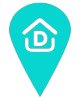
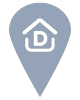
feat: marcador PRO por plan de suscripción + opciones del chat siempre visibles
- Nuevo campo subscription_plans.use_pro_marker: las propiedades de un
  dueño con un plan marcado así usan siempre el marcador PRO en el mapa
  (venta/alquiler/anticrético dejan de importar), tanto en la app nativa
  como en la web. Admin puede activarlo por plan desde Suscripciones.
- Backend: /properties (listado público) ahora resuelve la suscripción
  activa del dueño y expone `owner_pro_marker` por propiedad, sin filtrar
  el resto de los datos del dueño.
- Actualiza los assets de marcador-sale/rent/anti (nuevo diseño) y agrega
  marker-pro, sincronizados en assets/ (nativo) y public/ (web).
- Chat del asistente: las opciones rápidas (vender/alquilar/anticrético/
  "no tengo tiempo") ahora se muestran siempre debajo del historial, no
  solo antes del primer mensaje.

diff --git a/apps/api/src/modules/properties/properties.service.ts b/apps/api/src/modules/properties/properties.service.ts
@@ -24,7 +24,26 @@ const listInclude = {
   zones: { select: { id: true, name: true, city: true } },
   property_images: { where: { is_main: true }, take: 1 },
   property_amenities: { select: amenityInclude },
+  // Solo para resolver el marcador PRO del mapa — se aplana a un booleano
+  // y se descarta el resto (no se expone el owner en el listado público).
+  users: {
+    select: {
+      subscriptions: {
+        where: { status: 'active', subscription_plans: { use_pro_marker: true } },
+        select: { id: true },
+        take: 1,
+      },
+    },
+  },
 } satisfies Prisma.propertiesInclude;
+
+/** Aplana el include de arriba a un booleano plano y saca el `users` crudo de la respuesta pública. */
+function withProMarkerFlag<T extends { users?: { subscriptions: unknown[] } | null }>(
+  prop: T,
+): Omit<T, 'users'> & { owner_pro_marker: boolean } {
+  const { users, ...rest } = prop;
+  return { ...rest, owner_pro_marker: (users?.subscriptions.length ?? 0) > 0 };
+}
 
 const detailInclude = {
   property_types: { select: { id: true, name: true, slug: true } },
@@ -99,7 +118,7 @@ export class PropertiesService {
       },
       include: listInclude,
     });
-    return property;
+    return withProMarkerFlag(property);
   }
 
   async update(user: AuthUser, id: string, dto: UpdatePropertyDto) {
@@ -123,7 +142,7 @@ export class PropertiesService {
     // editar nada NO pasa por acá — ver publish()/reactivate().
     const needsReReview = prop.approval_status === 'approved';
 
-    return this.prisma.properties.update({
+    const updated = await this.prisma.properties.update({
       where: { id },
       data: {
         title: dto.title,
@@ -147,6 +166,7 @@ export class PropertiesService {
       },
       include: listInclude,
     });
+    return withProMarkerFlag(updated);
   }
 
   async publish(user: AuthUser, id: string) {
@@ -545,7 +565,7 @@ export class PropertiesService {
       }),
     ]);
     return {
-      data,
+      data: data.map(withProMarkerFlag),
       meta: {
         page,
         limit,
@@ -776,7 +796,7 @@ export class PropertiesService {
     });
 
     return {
-      data,
+      data: data.map(withProMarkerFlag),
       meta: { page, limit, total, totalPages: Math.ceil(total / limit) || 0 },
     };
   }

diff --git a/apps/admin/src/pages/Subscriptions.tsx b/apps/admin/src/pages/Subscriptions.tsx
@@ -18,6 +18,7 @@ interface Plan {
   ad_views: number;
   publication_duration_days: number | null;
   is_active: boolean;
+  use_pro_marker: boolean;
 }
 
 interface Subscription {
@@ -62,6 +63,7 @@ const EMPTY_PLAN_FORM = {
   ad_views: 0,
   publication_duration_days: '' as number | '',
   is_active: true,
+  use_pro_marker: false,
 };
 
 type PlanForm = typeof EMPTY_PLAN_FORM;
@@ -147,6 +149,7 @@ export default function Subscriptions() {
       ad_views: p.ad_views ?? 0,
       publication_duration_days: p.publication_duration_days ?? '',
       is_active: p.is_active,
+      use_pro_marker: p.use_pro_marker ?? false,
     });
     setPlanModal(true);
   };
@@ -343,7 +346,8 @@ export default function Subscriptions() {
                       {p.includes_statistics && <span className="badge badge-blue">Estadísticas</span>}
                       {p.priority_in_results && <span className="badge badge-blue">Prioridad</span>}
                       {p.is_business && <span className="badge badge-yellow">Empresas · {Number(p.ad_views).toLocaleString()} vistas</span>}
-                      {!p.allows_featured && !p.includes_statistics && !p.priority_in_results && (
+                      {p.use_pro_marker && <span className="badge badge-violet">Marcador PRO</span>}
+                      {!p.allows_featured && !p.includes_statistics && !p.priority_in_results && !p.use_pro_marker && (
                         <span className="text-muted">Básico</span>
                       )}
                     </div>
@@ -550,6 +554,10 @@ export default function Subscriptions() {
             <label style={{ display: 'flex', alignItems: 'center', gap: 6, fontSize: 14, cursor: 'pointer' }}>
               <input type="checkbox" checked={planForm.priority_in_results} onChange={(e) => setPlanForm({ ...planForm, priority_in_results: e.target.checked })} />
               Prioridad en resultados
+            </label>
+            <label style={{ display: 'flex', alignItems: 'center', gap: 6, fontSize: 14, cursor: 'pointer' }}>
+              <input type="checkbox" checked={planForm.use_pro_marker} onChange={(e) => setPlanForm({ ...planForm, use_pro_marker: e.target.checked })} />
+              Marcador PRO en el mapa
             </label>
           </div>
 

diff --git a/apps/mobile/app/(tabs)/index.web.tsx b/apps/mobile/app/(tabs)/index.web.tsx
@@ -89,6 +89,7 @@ interface Property {
   zones?: { name: string; city: string };
   users?: { name: string; phone?: string };
   whatsapp?: string; bedrooms?: number; bathrooms?: number; area_m2?: number;
+  owner_pro_marker?: boolean;
 }
 
 const FILTERS = ['Todos', 'Venta', 'Alquiler', 'Anticrético'];
@@ -111,9 +112,17 @@ const MARKER_URLS: Record<string, string> = {
   anticretico: '/markers/marker-anti.png',
 };
 const MARKER_ACTIVE_URL = '/markers/marker-active.png';
+const MARKER_PRO_URL = '/markers/marker-pro.png';
 
-const makeMarkerIcon = (operation: string, isSelected: boolean) => {
-  const url = isSelected ? MARKER_ACTIVE_URL : (MARKER_URLS[operation] ?? MARKER_URLS.sale);
+// El marcador PRO reemplaza al de operación para propietarios con un plan
+// que lo habilita — sin importar venta/alquiler/anticrético. El de
+// "seleccionado" sigue ganando siempre.
+const makeMarkerIcon = (operation: string, isSelected: boolean, isProOwner?: boolean) => {
+  const url = isSelected
+    ? MARKER_ACTIVE_URL
+    : isProOwner
+      ? MARKER_PRO_URL
+      : (MARKER_URLS[operation] ?? MARKER_URLS.sale);
   const w = isSelected ? 36 : 30;
   const h = isSelected ? 48 : 40;
   return L.icon({
@@ -385,7 +394,7 @@ export default function ExploreScreen() {
               <Marker
                 key={p.id}
                 position={[p.latitude!, p.longitude!]}
-                icon={makeMarkerIcon(p.operation, isSelected)}
+                icon={makeMarkerIcon(p.operation, isSelected, p.owner_pro_marker)}
                 eventHandlers={{ click: () => onMarkerPress(p) }}
               >
                 <Tooltip

diff --git a/apps/mobile/src/components/support/OwnerSupportChat.tsx b/apps/mobile/src/components/support/OwnerSupportChat.tsx
@@ -218,22 +218,20 @@ function AssistantScreen({ visible, onClose }: { visible: boolean; onClose: () =
               );
             }}
             ListFooterComponent={
-              !needKnown ? (
-                <View style={styles.quickReplies}>
-                  {NEED_OPTIONS.map((opt) => (
-                    <TouchableOpacity
-                      key={opt.id}
-                      style={styles.needChip}
-                      onPress={() => send(opt.label)}
-                      activeOpacity={0.8}
-                      disabled={sending}
-                    >
-                      <Ionicons name={opt.icon} size={16} color={OWNER_PRIMARY} />
-                      <Text style={styles.needChipText}>{opt.label}</Text>
-                    </TouchableOpacity>
-                  ))}
-                </View>
-              ) : null
+              <View style={styles.quickReplies}>
+                {NEED_OPTIONS.map((opt) => (
+                  <TouchableOpacity
+                    key={opt.id}
+                    style={styles.needChip}
+                    onPress={() => send(opt.label)}
+                    activeOpacity={0.8}
+                    disabled={sending}
+                  >
+                    <Ionicons name={opt.icon} size={16} color={OWNER_PRIMARY} />
+                    <Text style={styles.needChipText}>{opt.label}</Text>
+                  </TouchableOpacity>
+                ))}
+              </View>
             }
           />
         )}

diff --git a/apps/mobile/app/(tabs)/index.tsx b/apps/mobile/app/(tabs)/index.tsx
@@ -47,6 +47,7 @@ interface Property {
   bedrooms?: number;
   bathrooms?: number;
   area_m2?: number;
+  owner_pro_marker?: boolean;
 }
 
 const FILTERS = ['Todos', 'Venta', 'Alquiler', 'Anticrético'];
@@ -62,10 +63,15 @@ const markerImages = {
   rent: require('../../assets/markers/marker-rent.png'),
   anticretico: require('../../assets/markers/marker-anti.png'),
   active: require('../../assets/markers/marker-active.png'),
+  pro: require('../../assets/markers/marker-pro.png'),
 };
 
-const getMarkerImage = (operation: string, isSelected: boolean) => {
+// El marcador PRO reemplaza al de operación (venta/alquiler/anticrético)
+// para propietarios con un plan que lo habilita — sin importar la
+// operación. El de "seleccionado" sigue ganando siempre.
+const getMarkerImage = (operation: string, isSelected: boolean, isProOwner?: boolean) => {
   if (isSelected) return markerImages.active;
+  if (isProOwner) return markerImages.pro;
   if (operation === 'sale') return markerImages.sale;
   if (operation === 'rent') return markerImages.rent;
   return markerImages.anticretico;
@@ -102,7 +108,7 @@ function PropertyMarker({
       tracksViewChanges={tracks}
     >
       <Image
-        source={getMarkerImage(prop.operation, selected)}
+        source={getMarkerImage(prop.operation, selected, prop.owner_pro_marker)}
         style={{ width: w, height: h }}
         resizeMode="contain"
       />

diff --git a/apps/api/src/modules/subscriptions/plans.service.ts b/apps/api/src/modules/subscriptions/plans.service.ts
@@ -39,6 +39,7 @@ export class PlansService {
         is_business: dto.is_business ?? false,
         ad_views: dto.ad_views ?? 0,
         is_active: dto.is_active ?? true,
+        use_pro_marker: dto.use_pro_marker ?? false,
       },
     });
   }
@@ -62,6 +63,7 @@ export class PlansService {
         is_business: dto.is_business,
         ad_views: dto.ad_views,
         is_active: dto.is_active,
+        use_pro_marker: dto.use_pro_marker,
       },
     });
   }

diff --git a/apps/admin/src/index.css b/apps/admin/src/index.css
@@ -161,6 +161,7 @@ tr.group-continued td { padding-top: 9px; padding-bottom: 9px; color: var(--ink-
 .badge-yellow { background: var(--amber-tint); color: var(--amber); }
 .badge-blue { background: var(--brand-tint); color: var(--brand-ink); }
 .badge-gray { background: var(--line-soft); color: var(--ink-soft); }
+.badge-violet { background: var(--violet-tint); color: var(--violet); }
 
 /* Buttons */
 .btn {

diff --git a/apps/api/src/modules/subscriptions/dto/create-plan.dto.ts b/apps/api/src/modules/subscriptions/dto/create-plan.dto.ts
@@ -93,4 +93,12 @@ export class CreatePlanDto {
   @IsInt()
   @Min(0)
   ad_views?: number;
+
+  @ApiPropertyOptional({
+    default: false,
+    description: 'Las propiedades de dueños con este plan usan el marcador PRO en el mapa, sin importar la operación',
+  })
+  @IsOptional()
+  @IsBoolean()
+  use_pro_marker?: boolean;
 }
